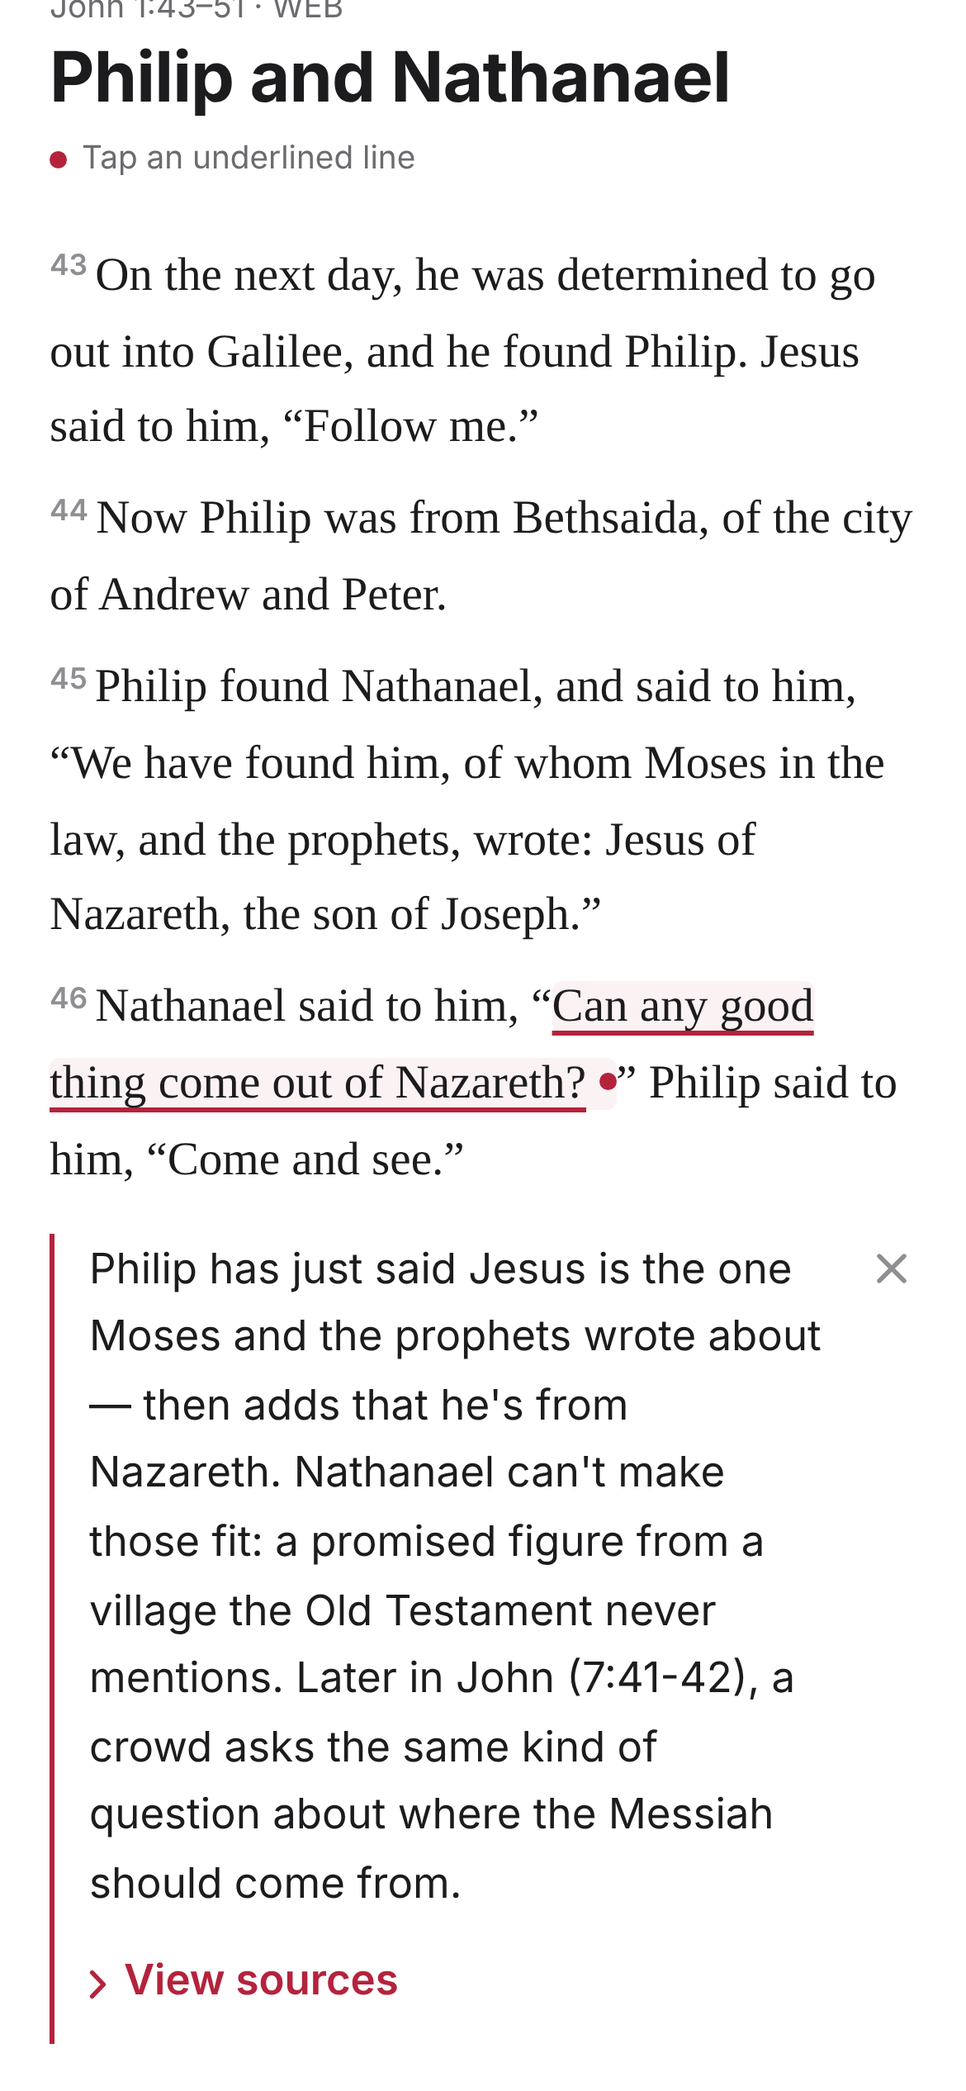
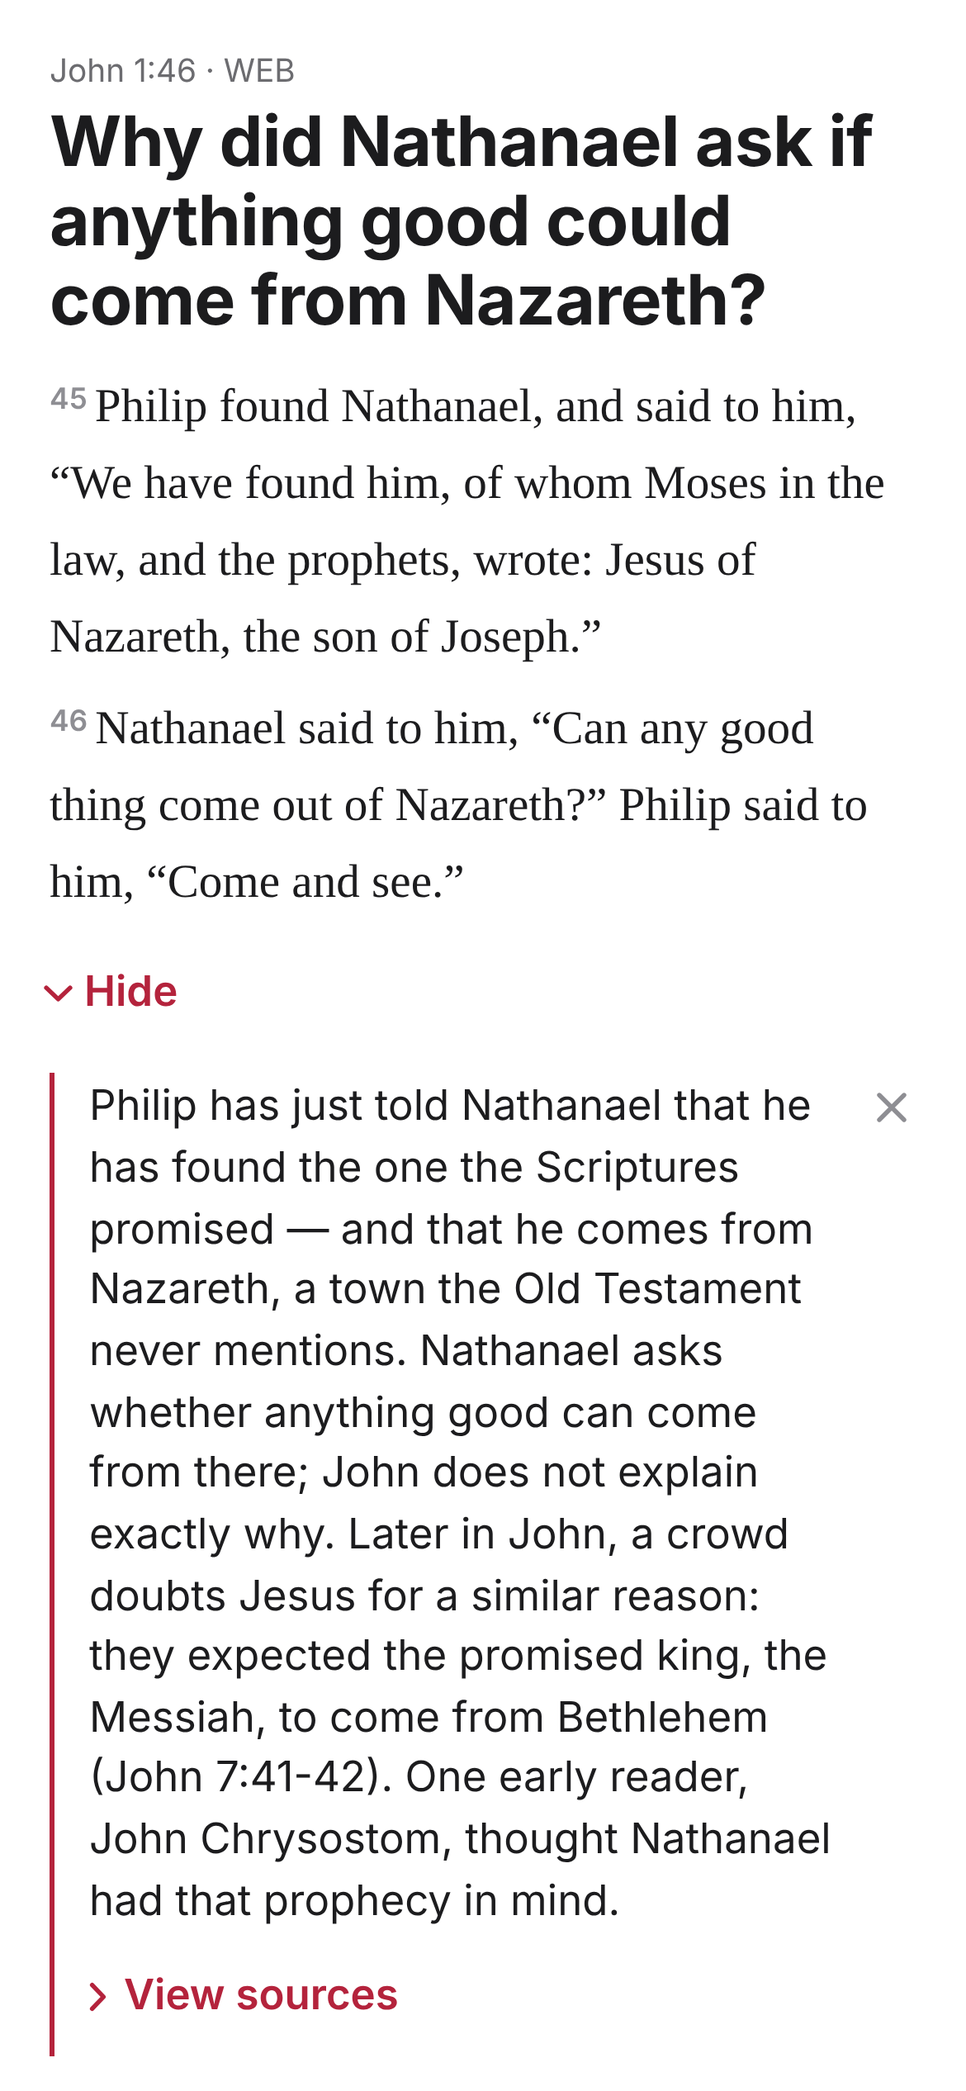
context-bible: 첫 화면 질문 하나(요 1:46) + 설명 3개를 실제로 연 초기 주석(Chrysostom·Augustine·Cyril·Aquinas) 출처로 다듬기, 막힌 자료 기록, 로봇 88/88
Claude-Session: https://claude.ai/code/session_01GVpU8e9h4SDinNEWWsTM6t

Changed region(s): [[0.0308, 0.0, 0.9231, 0.9672], [0.8615, 0.0312, 0.8923, 0.0936]]

diff --git a/docs/context-bible/index.html b/docs/context-bible/index.html
@@ -30,6 +30,17 @@ button:focus-visible,.mark:focus-visible{outline:2px solid var(--accent); outlin
 .eyebrow{font-size:.76rem; color:var(--label2); margin:0}
 h1{font-size:1.65rem; line-height:1.15; font-weight:700; margin:2px 0 8px; letter-spacing:-.01em}
 .hint{font-size:.76rem; color:var(--label2); display:flex; align-items:center; gap:6px; margin:0 0 20px}
+.lead{margin:0 0 30px}
+.lead .ctx{font-family:var(--serif); font-size:1.12rem; line-height:1.62; margin:10px 0 4px}
+.lead .ctx p{margin:0; padding:3px 0}
+.lead .ctx sup{font-family:var(--sans); font-size:.62em; color:var(--label3); font-weight:600; margin-right:3px; vertical-align:.45em}
+.see{color:var(--accent); font-weight:600; min-height:44px; display:inline-flex; align-items:center; gap:7px}
+.see svg{width:7px; height:12px; transition:transform .2s}
+.see[aria-expanded="true"] svg{transform:rotate(90deg)}
+h2{font-size:1.12rem; font-weight:700; margin:0 0 2px}
+.com{margin:0 0 10px}
+.com:last-child{margin:0}
+.com a{color:var(--accent); text-decoration:none; font-weight:600}
 .dot{width:7px; height:7px; border-radius:50%; background:var(--accent); flex:none}
 
 .passage{font-family:var(--serif); font-size:1.12rem; line-height:1.62}
@@ -107,7 +118,9 @@ function load(){
 
 function render(){
   const P = D.passage, base = D.baseTranslation, byVerse = {};
-  D.insights.forEach(i => byVerse[i.verse] = i);
+  const L = D.lead, lead = ins(L.insight);
+  D.insights.forEach(i => { if (i.id !== L.insight) byVerse[i.verse] = i; });
+  const ctx = L.context.map(v => `<p id="ctx-${v}"><sup>${v}</sup>${esc(D.texts[base][`${P.book} ${P.chapter}:${v}`])}</p>`).join('');
   let verses = '';
   for (let v = P.from; v <= P.to; v++){
     const t = D.texts[base][`${P.book} ${P.chapter}:${v}`], n = byVerse[v];
@@ -120,13 +133,21 @@ function render(){
     if (n) verses += `<div class="slot" id="slot-${n.id}"></div>`;
   }
   app.innerHTML = `
-    <header>
-      <p class="eyebrow">${esc(prettyRef(P.ref))} · ${esc(base)}</p>
-      <h1>${esc(P.title)}</h1>
+    <section class="lead" aria-labelledby="q">
+      <p class="eyebrow">${esc(lead.ref)} · ${esc(base)}</p>
+      <h1 id="q">${esc(L.question)}</h1>
+      <div class="ctx">${ctx}</div>
+      <button class="see" data-note="${lead.id}" aria-expanded="false">${ARROW}<span>See why</span></button>
+      <div class="slot" id="slot-${lead.id}"></div>
+    </section>
+    <main>
+      <p class="eyebrow">${esc(prettyRef(P.ref))}</p>
+      <h2>${esc(P.title)}</h2>
       <p class="hint"><span class="dot"></span>Tap an underlined line</p>
-    </header>
-    <main><div class="passage intro">${verses}</div></main>
+      <div class="passage intro">${verses}</div>
+    </main>
     <footer>
+      <p>Commentaries: early Christian writers in public-domain translations, read from the HistoricalChristianFaith Commentaries Database.</p>
       <p>Scripture: World English Bible (WEB), public domain. Greek and Hebrew checked against the SBL Greek New Testament, the Septuagint (Swete) and the Westminster Leningrad Codex.</p>
       <p>Early preview. Notes are a draft and have not yet been reviewed by a scholar.</p>
     </footer>`;
@@ -144,11 +165,13 @@ function sourcesHTML(n){
   const orig = n.detail.original.sources ? `Greek/Hebrew: ${n.detail.original.sources.map(esc).join(', ')}. ` : '';
   return `${links}
     <section class="limits"><h3>What the text says, and what it doesn’t</h3>${n.limits.map(x => `<p>${esc(x)}</p>`).join('')}</section>
+    <section><h3>Commentaries checked</h3>${n.commentaries.map(c => `<p class="com"><span class="ref">${esc(c.author)}</span>, ${esc(c.work)} — ${esc(c.loc)}. ${esc(c.note)} <a href="${esc(c.url)}" target="_blank" rel="noopener">Read it</a></p>`).join('')}</section>
     <section><p class="fine">Bible text: WEB, public domain. ${orig}Draft notes, ${esc(n.checked.date)}.</p></section>`;
 }
 
+const verseOf = n => document.getElementById((n.id === D.lead.insight ? 'ctx-' : 'verse-') + n.verse);
 function setSourceHighlight(n, on){
-  const verseEl = document.getElementById('verse-' + n.verse);
+  const verseEl = verseOf(n);
   verseEl.querySelectorAll('mark.hl').forEach(m => m.replaceWith(...m.childNodes));
   verseEl.normalize();
   if (!on) return;
@@ -164,11 +187,15 @@ function setSourceHighlight(n, on){
 }
 function lightUp(root){ requestAnimationFrame(() => requestAnimationFrame(() => root.querySelectorAll('mark.hl').forEach((m, i) => setTimeout(() => m.classList.add('on'), i * 150)))); }
 
+function setToggle(id, on){
+  const b = document.querySelector(`[data-note="${id}"]`); b.setAttribute('aria-expanded', on);
+  if (b.classList.contains('see')) b.querySelector('span').textContent = on ? 'Hide' : 'See why';
+}
 function closeNote(){
   if (!openId) return;
   const n = ins(openId);
   document.getElementById('slot-' + openId).innerHTML = '';
-  document.querySelector(`.mark[data-note="${openId}"]`).setAttribute('aria-expanded', 'false');
+  setToggle(openId, false);
   setSourceHighlight(n, false);
   openId = null;
 }
@@ -182,24 +209,25 @@ function openNote(id, scroll){
       <button class="src-btn" data-src="${id}" aria-expanded="false" aria-controls="src-${id}">${ARROW}<span>View sources</span></button>
       <div class="sources" id="src-${id}" hidden></div>
     </div>`;
-  document.querySelector(`.mark[data-note="${id}"]`).setAttribute('aria-expanded', 'true');
+  setToggle(id, true);
   openId = id;
-  if (scroll) document.getElementById('verse-' + n.verse).scrollIntoView({behavior:'smooth', block:'start'});
+  if (scroll) verseOf(n).scrollIntoView({behavior:'smooth', block:'start'});
 }
 
 app.addEventListener('click', e => {
+  if (e.target.closest('a')) return;
   let t = e.target.closest('button, [data-note]');
   // a marked verse is tappable anywhere: a phrase that wraps over two lines has gaps where a tap would miss it
   if (!t){ const v = e.target.closest('.v.has-note'); if (v) t = v.querySelector('[data-note]'); }
   if (!t) return;
   if (t.dataset.note){ openId === t.dataset.note ? closeNote() : openNote(t.dataset.note, false); }
-  else if (t.dataset.close){ const v = ins(t.dataset.close).verse; closeNote(); document.getElementById('verse-' + v).scrollIntoView({block:'nearest'}); }
+  else if (t.dataset.close){ const el = verseOf(ins(t.dataset.close)); closeNote(); el.scrollIntoView({block:'nearest'}); }
   else if (t.dataset.src){
     const id = t.dataset.src, n = ins(id), box = document.getElementById('src-' + id);
     const on = t.getAttribute('aria-expanded') !== 'true';
     t.setAttribute('aria-expanded', on); box.hidden = !on;
     t.querySelector('span').textContent = on ? 'Hide sources' : 'View sources';
-    if (on){ box.innerHTML = sourcesHTML(n); setSourceHighlight(n, true); lightUp(box); lightUp(document.getElementById('verse-' + n.verse)); }
+    if (on){ box.innerHTML = sourcesHTML(n); setSourceHighlight(n, true); lightUp(box); lightUp(verseOf(n)); }
     else setSourceHighlight(n, false);
   }
 });

diff --git a/context_bible/robot.js b/context_bible/robot.js
@@ -39,8 +39,25 @@ async function run(browser, base, name, opts, shots) {
   ok(await page.locator('.legend, .checks, .steps').count() === 0, `[${name}] removed UI is gone (legend, 5 steps, sermon checks)`);
   if (shots) await page.screenshot({ path: path.join(OUT, `${name}-1-first.png`) });
 
+  // lead question → See why → explanation → View sources (with checked commentaries) → hide
+  ok(await page.locator('#q').isVisible() && (await page.locator('#q').innerText()).endsWith('?'), `[${name}] first screen starts with a question`);
+  await tapEl('.lead .see');
+  ok(await page.locator('#note-v46').isVisible(), `[${name}] lead: See why opens the explanation`);
+  const leadEasy = await page.locator('#note-v46 .easy').innerText();
+  ok(leadEasy.length > 80 && leadEasy.length < 560, `[${name}] lead: one short paragraph (${leadEasy.length} chars)`);
+  if (shots) { await page.waitForTimeout(400); await page.screenshot({ path: path.join(OUT, `${name}-2-explanation.png`) }); }
+  await tapEl('#note-v46 .src-btn'); await page.waitForTimeout(1600);
+  const coms = await page.locator('#src-v46 .com').count(), links = await page.locator('#src-v46 .com a[href^="https://github.com/HistoricalChristianFaith/"]').count();
+  ok(coms >= 2 && links === coms, `[${name}] lead: View sources lists ${coms} checked commentaries, each with a link`);
+  if (shots) await page.locator('#note-v46').screenshot({ path: path.join(OUT, `${name}-3-sources.png`) });
+  await tapEl('#note-v46 .src-btn');
+  ok(await page.locator('#src-v46').isHidden(), `[${name}] lead: Hide sources closes`);
+  await tapEl('.lead .see');
+  ok(await page.locator('#note-v46').count() === 0, `[${name}] lead: Hide closes the explanation`);
+  ok(await page.locator('.mark[data-note="v46"]').count() === 0, `[${name}] verse 46 isn't marked twice`);
+
   let prev = null;
-  for (const id of ['v46', 'v47', 'v51']) {
+  for (const id of ['v47', 'v51']) {
     const ls = await lines(id);
     // every line of the underlined phrase opens and closes the note with a real tap
     for (let k = 0; k < ls.length; k++) {
@@ -58,16 +75,15 @@ async function run(browser, base, name, opts, shots) {
     const easy = (await page.locator(`#note-${id} .easy`).innerText()).trim();
     ok(easy.length > 80 && easy.length < 520, `[${name}] ${id}: one short explanation (${easy.length} chars)`);
     ok(await page.locator(`#note-${id} button`).count() === 2, `[${name}] ${id}: only Close + View sources buttons`);
-    if (shots && id === 'v46') { await page.waitForTimeout(400); await page.screenshot({ path: path.join(OUT, `${name}-2-explanation.png`) }); }
+    if (shots && id === 'v51') { await page.waitForTimeout(400); await page.screenshot({ path: path.join(OUT, `${name}-4-verse51.png`) }); }
     await tapEl(`#note-${id} .src-btn`);
     await page.waitForTimeout(1600);
     const box = page.locator(`#src-${id}`);
     const ex = await box.locator('.excerpt p').count(), hl = await box.locator('mark.hl.on').count();
-    ok(await box.isVisible() && ex >= 1 && hl >= 1 && await box.locator('.limits p').count() === 2,
+    ok(await box.isVisible() && ex >= 1 && hl >= 1 && await box.locator('.limits p').count() === 2 && await box.locator('.com a').count() >= 2,
       `[${name}] ${id}: View sources shows passages (${ex} verses, ${hl} highlighted) + what the text does/doesn't say`);
     const sw = await page.evaluate(() => document.documentElement.scrollWidth);
     ok(sw <= opts.viewport.width, `[${name}] ${id}: no sideways scroll (${sw})`);
-    if (shots && id === 'v46') await page.locator(`#note-${id}`).screenshot({ path: path.join(OUT, `${name}-3-sources.png`) });
     await tapEl(`#note-${id} .src-btn`);
     ok(await box.isHidden(), `[${name}] ${id}: Hide sources closes`);
     prev = id;

diff --git a/context_bible/sources/commentaries.md b/context_bible/sources/commentaries.md
@@ -1,0 +1,25 @@
+# 주석 대조 기록 (2026-11-04, 개발 세션) — 실제로 열어 읽은 것만
+
+자료: **HistoricalChristianFaith/Commentaries-Database** (GitHub, 커밋 `9da765b`), 초기 교부·중세 주석의 공개 도메인 영역 번역(NPNF 등)을 절별 TOML 로 모은 것.
+`git clone --filter=blob:none` 후 해당 파일만 받아 원문을 읽었다. 링크는 커밋 고정 GitHub 주소(화면 "Read it").
+
+| 절 | 저자 · 자료 · 위치 | 실제로 하는 말(요약) | 화면에서 쓴 곳 |
+|---|---|---|---|
+| 1:46 | John Chrysostom, *Homilies on John*, Homily 20 (`John Chrysostom/John 1_46.toml`, `1_47.toml`) | 나다나엘은 선지자들에게서 그리스도가 베들레헴에서 난다고 알았기에 '나사렛'을 의심했다(미 5:2, 마 2:5-6 인용). 반박 대신 직접 보러 갔다 | 46 설명 마지막 문장, 출처 |
+| 1:46 | Augustine, *Tractates on John* 7 (Aquinas *Catena Aurea* 인용, `Augustine of Hippo/John 1_46.toml`) | 질문이 아니라 긍정문("나사렛에서 좋은 것이 날 수 있다")으로도 읽을 수 있고 그쪽을 택함 | 46 '본문이 말하지 않는 것', 출처 |
+| 1:46 | Cyril of Alexandria, *Commentary on John* Book 2 (`Cyril of Alexandria/John 1_46.toml`) | 나다나엘이 나사렛에서 좋은 것을 기대했다고 읽음 | 46 출처 |
+| 1:47 | Augustine, *Tractates on John* 7 (`Augustine of Hippo/John 1_47.toml`) | 간사함(guile) = 말과 생각이 다른 것. 나다나엘은 죄를 숨기지 않아 간사함이 없다 | 47 설명 첫 문장 풀이, 출처 |
+| 1:47 | Chrysostom, Homily 20 (`John Chrysostom/John 1_47.toml`) | 나다나엘의 질문은 불신이 아니라 선지서에 근거한 공정한 판단이라 칭찬받음 | 47 출처 |
+| 1:51 | Augustine, *Tractates on John* 7 (`Augustine of Hippo/John 1_51.toml`) | 이스라엘이라 불린 야곱이 사다리를 봤고 나다나엘은 '참 이스라엘 사람'이니 야곱의 꿈을 말해 준 것이 어울린다 | 51 설명 마지막 문장, 출처 |
+| 1:51 | Thomas Aquinas, *Commentary on John* ch.1 (`Thomas Aquinas/John 1_51.toml`) | "네가 참 이스라엘 사람이니 이스라엘(야곱)이 본 것에 주목하라" 취지 | 51 출처(요약만, 인용 없음 — 현대 번역 저작권 미확인) |
+| 1:51 | Chrysostom, Homily 21 (`John Chrysostom/John 1_50-51.toml`) | 천사들이 탄생·시험·십자가·부활·승천 때 그를 섬김. 여기서 야곱은 언급 안 함 | 51 출처 |
+| 1:51 | Cyril of Alexandria, Book 2 (`Cyril of Alexandria/John 1_51.toml`) | 천사들이 인자를 섬기는 것은 그가 하나님의 아들임을 보여 줌 | 51 출처 |
+
+## 확인 결과 바뀐 것
+- 47절 "야곱의 속임(창 27:35)과 대비"는 **열어 본 주석 어디에도 없었다**. 화면에서 "one possible reading"으로만 두고, 주석들은 야곱 연결을 51절에서 한다고 밝힘. 창 27:35 의 같은 낱말(LXX δόλος)은 원문 대조된 낱말 일치로만 표시.
+- 46절 베들레헴 연결은 Chrysostom 이 실제로 말한다 → "One early reader, John Chrysostom, thought…"로 출처를 밝혀 서술. 반대 읽기(Augustine·Cyril)도 함께.
+- 쓰지 않은 것: Theodore of Mopsuestia(나사렛 멸시설) — 파일에 출처 링크가 비어 있고 현대 번역(저작권 불명)으로 보여 근거로 쓰지 않음. Bonaventure — 한 줄만 확인, 미사용.
+
+## 막힌 자료 (이 환경에서 접속 불가, 2026-11-04)
+biblehub.com, studylight.org, ccel.org, netbible.org, archive.org, sacred-texts.com, biblestudytools.com, preceptaustin.org, en.wikisource.org, gutenberg.org, bible.helloao.org — 전부 연결 거부.
+→ Westcott *St John*, Ellicott, JFB, Meyer, NET Bible 노트는 **열어 보지 못했으므로 근거로 쓰지 않음**. GitHub 에서 JFB·Clarke·Gill·Henry 가 든 저장소(SOTW-Historical-Commentaries)는 창세기 일부만 있어 요한복음 없음.

diff --git a/board/context-bible.md b/board/context-bible.md
@@ -2,11 +2,13 @@
 
 ## 🔁 이어받기
 - 마지막 저장: 2026-11-04 (개발 세션) · 작업 브랜치: `claude/context-bible` (main 반영)
-- 방금 끝낸 것: **사용자 요청으로 단순화**("구절 누르면 쉬운 설명 하나, 더 궁금하면 근거 보기만") — 구절 탭 → 쉬운 영어 설명 한 문단(`easy`) → **View sources** 하나(연결 본문 원문+하이라이트, 연결 이유, "본문이 말하는 것/말하지 않는 것" 2줄(`limits`), 출처). 5단계 메뉴·색 등급 범례·"Heard it in a sermon" UI 제거(데이터·검수 파일 `REVIEW.md`·`sources/` 는 보존). 두 줄에 걸친 밑줄 클릭 누락 수정(표시 절 전체가 탭 대상). 로봇(실제 터치/마우스 좌표, 390×844 라이트·다크 + 데스크톱 1280) 95/95, 콘솔 에러 0.
+- 방금 끝낸 것: **첫 화면 = 질문 하나**("Why did Nathanael ask if anything good could come from Nazareth?" + 45-46절 → See why → 쉬운 설명 → View sources), 나머지 47·51 은 본문에서 탭. 설명 3개를 **실제로 열어 읽은 초기 주석**(Chrysostom·Augustine·Cyril·Aquinas, HistoricalChristianFaith DB)으로 다시 다듬고 출처(저자·자료·위치·링크)를 View sources 에. 47절 원인 단정 삭제, 야곱-속임은 "one possible reading". 로봇 88/88(실제 터치, 390 라이트·다크 + 데스크톱).
+- 막힌 자료: biblehub·studylight·ccel·netbible·archive.org·sacred-texts·biblestudytools·wikisource·gutenberg·bible.helloao.org 접속 거부 → Westcott·Ellicott·JFB·Meyer·NET 노트는 못 열어서 근거로 안 씀(`context_bible/sources/commentaries.md`). github.com clone·raw.githubusercontent 은 됨.
 - 진행 중이던 것: 없음
 - 다음 할 일:
   1. 사용자 답 2개: "설명이 쉬웠나 / 근거 보기로 충분히 확인됐나"
-  2. 답에 따라 `easy` 문장 다듬기(JSON 만 고치고 `python3 context_bible/build.py` → `node context_bible/robot.js`)
+  2. 막힌 사이트가 열리는 환경이면 Westcott *St John*·NET 노트로 47절 야곱 연결 재확인
+  3. 답에 따라 `easy` 문장 다듬기(JSON 만 고치고 `python3 context_bible/build.py` → `node context_bible/robot.js`)
   3. 출시 전 필수: 사람(신학 배경) 검수. 견해 문장은 주석 위치를 대조해 붙이거나 지금처럼 'some readers' 수준 유지
   4. 사용자 OK 시 두 번째 단락(같은 JSON 형식) → 영어권 지인 검증 → iOS 전환
 - 사용자 대기: 질문 2개 답

diff --git a/PRODUCT.md b/PRODUCT.md
@@ -102,6 +102,7 @@
 
 | 날짜 | 결정 | 이유 |
 |---|---|---|
+| 2026-11-04 | **성경 동반자: 첫 화면을 질문 하나로**(요 1:46), 설명 3개는 실제로 열어 읽은 초기 주석(Chrysostom·Augustine·Cyril·Aquinas)만 출처로. 못 연 자료는 근거로 쓰지 않음 | 사용자 "질문 하나로 시작, 주석 근거 제대로 확인해서 쉽게". 46 질문은 사용자 원래 고충(나사렛·베들레헴)과 같고 출처(Chrysostom)가 실제로 있음 |
 | 2026-11-04 | **성경 동반자 시제품 단순화**: 구절 → 쉬운 설명 한 문단 → View sources 하나. 등급 범례·5단계·설교 확인 UI 제거(데이터는 보존) | 사용자 "간단하게 줄여줘" — 핵심은 쉬운 설명과 근거이지 등급 체계 자체가 아님 |
 | 2026-11-04 | **성경 동반자 웹 시제품 v1 공개**(`docs/context-bible/`): 요 1:46·47·51 표시 3개, 5단계 펼침, 연결 본문 바로 펼치기+같은 문구 하이라이트, "Heard it in a sermon?" 3개. Codex 검토 반영 — 창 27:35 화자(이삭) 수정, 원어 주장은 SBLGNT·LXX(Swete)·WLC 원문 대조분만 출처와 함께, 대조 못 한 주석가 귀속·책 목록 삭제, 설교 '판정' 말투 → 본문이 보여 주는 것/열어 두는 것 | 신뢰가 제품 핵심. 대조 못 한 건 화면에 안 올린다. 다음은 사용자 질문 2개 답 |
 | 2026-11-04 | **성경 동반자 MVP 시제품 구현 시작**(요 1:43-51 + 연결 본문, 읽기→놓치기 쉬운 맥락→근거 확인, 영어 콘텐츠, 웹 미리보기로 검증). 개발 세션 `board/context-bible.md`. 범위 밖: 피드·결제·제출·자동 생성 | 사용자 "지금은 맥락 이해하는 거 먼저 제대로 만들고"의 뜻 = 기획 대기가 아니라 바로 만들기(Codex 전달) |

diff --git a/context_bible/REVIEW.md b/context_bible/REVIEW.md
@@ -55,6 +55,13 @@
    "본문이 열어 두는 두 가지 읽기"로만 보여 준다. `build.py` 가 화면 문구에 'commentator' 가 들어가면 실패하게 함.
 4. 판정 말투 → 섹션 이름 "Heard it in a sermon?", 결론 문장은 "본문이 보여 주는 것 / 열어 두는 것"으로(예: "The text tells us where Nathanael was, not what he was doing there."). "Fine as a guess" 류 삭제.
 
+## 주석 대조 (11-04, Head 요청 — 설명 3개)
+실제로 열어 읽은 주석만 출처로 씀: Chrysostom(Homily 20·21), Augustine(Tractate 7), Cyril of Alexandria(Book 2), Thomas Aquinas(Commentary on John 1). 저자·위치·링크는 `sources/commentaries.md`.
+- 46: 베들레헴 연결 = Chrysostom 실제 견해(✅), 긍정문 읽기 = Augustine·Cyril(✅) → '견해가 갈린다'가 실제 출처로 뒷받침됨.
+- 47: "의심했기 때문에 칭찬" 원인 단정 삭제. 야곱-속임 대비는 대조한 주석에 없음 → "one possible reading" + 주석은 51절에서 야곱을 연결한다고 명시.
+- 51: 야곱의 꿈 연결 = Augustine·Aquinas(✅), 천사 섬김 읽기 = Chrysostom·Cyril(✅).
+- 막힌 자료 목록은 `sources/commentaries.md` 맨 아래. 열어 보지 못한 현대·19세기 주석은 화면·데이터 어디에도 근거로 없음.
+
 ## 남은 한계 (출시 전 사람 검수 필요)
 - 사람(신학 배경) 검수 아직 없음 — 화면 하단에 "draft, not yet checked by a scholar" 표시.
 - 견해 두 개씩은 대표성을 주석서로 확인하지 못했다. 출시 전 공개 도메인 주석(예: 19세기) 또는 사용 허가 받은 현대 주석의 **해당 위치**를 붙이거나, 지금처럼 '읽기'로만 둔다.
